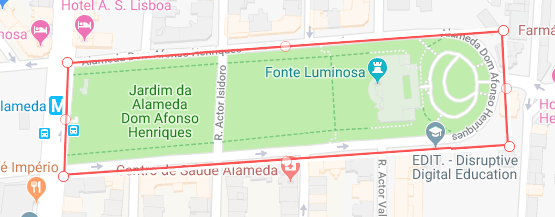
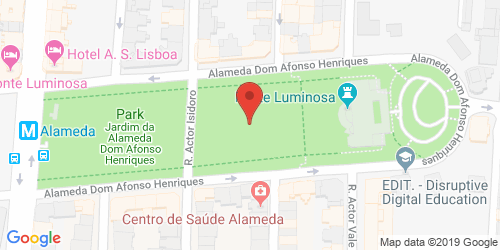
Downloading images from google static maps api.

diff --git a/src/nest_scraper.py b/src/nest_scraper.py
@@ -14,6 +14,7 @@ from datetime import datetime as dt
 import discord
 from discord.ext import commands
 import googlemaps
+import urllib.request 
 
 def load_geofences(tr_cfg):
     nest_config_path = tr_spy_config["nest_config_path"]
@@ -54,6 +55,16 @@ def create_mad_geofence(tr_cfg):
         mad_geofence += "\n"
     with open("mad_geofence.txt", "w+") as f:
             f.write(mad_geofence)
+            
+def download_static_map_img(tr_cfg, outdir):
+    nest_config_path = tr_spy_config["nest_config_path"]
+    api_key = tr_cfg["maps_api_key"]
+    with open(nest_config_path) as f:
+        nests = eval(f.read())
+    for nest in nests:
+        nest_center = nest["center"]
+        nest_img_path = "https://maps.googleapis.com/maps/api/staticmap?size=500x250&markers=color:red%7Clabel:%7C"+str(nest_center[0])+","+str(nest_center[1])+"&key="+api_key
+        urllib.request.urlretrieve(nest_img_path, outdir+nest["name"]+".png")
     
 def inside_geofence(polygon, point):
     lat = point[0]
@@ -132,7 +143,7 @@ async def report_nest(nest_channel, nest_name, nesting_mon, nest_center, address
     author_name = "Nest "+nest_name
     nest_embed=discord.Embed(title=nest_title, url=title_url, description=address)
     nest_embed.set_author(name=author_name, icon_url="https://png.icons8.com/color/1600/map-pokemon")
-    nest_img_path = "https://maps.googleapis.com/maps/api/staticmap?size=500x250&markers=color:red%7Clabel:%7C"+str(nest_center[0])+","+str(nest_center[1])+"&key="+api_key
+    nest_img_path = "https://raw.githubusercontent.com/pjdrm/TeamRocketSpy/master/config/nest_img/"+nest_name+".png"
     mon_img = "https://raw.githubusercontent.com/pjdrm/TeamRocketSpy/master/config/pokemon-icons/"+nesting_mon.lower()+".png"
     nest_embed.set_thumbnail(url=mon_img)
     nest_embed.set_image(url=nest_img_path)
@@ -162,8 +173,9 @@ bot = commands.Bot(command_prefix="$")
 @bot.event
 async def on_ready():
     print("Going to report nests to Poketrainers")
-    print(NEST_CHANNEL_ID)
     nest_channel = bot.get_channel(NEST_CHANNEL_ID)
+    async for message in nest_channel.history():
+            await message.delete()
     for nest_name, nestig_mon, nest_center, address in FOUND_NESTS:
         await report_nest(nest_channel, nest_name, nestig_mon, nest_center, address, API_KEY)
     await bot.close()
@@ -180,3 +192,4 @@ NEST_CHANNEL_ID = None
 API_KEY = None
 find_nests(tr_spy_config)
 #create_mad_geofence(tr_spy_config)
+#download_static_map_img(tr_spy_config, "./config/nest_img/")
